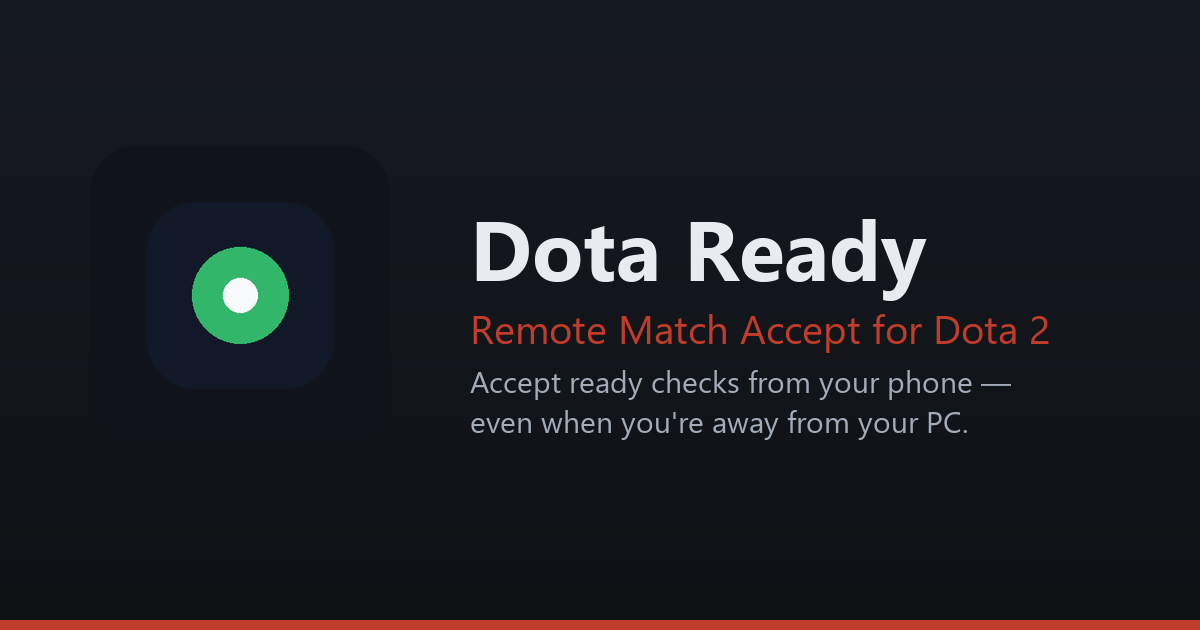
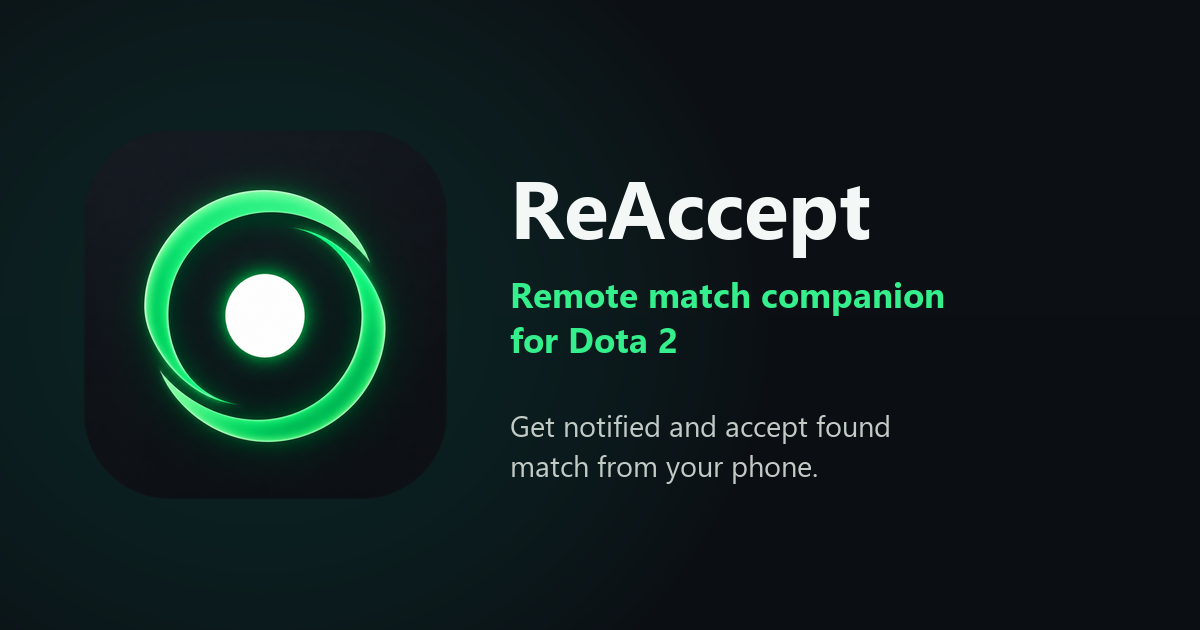
ui: rebrand landing site as ReAccept
Move the public site to re-accept.com, update metadata and disclaimers, and publish the new icon, social card, download names, and QR code.

diff --git a/index.html b/index.html
@@ -3,8 +3,9 @@
 <head>
   <meta charset="UTF-8">
   <meta name="viewport" content="width=device-width, initial-scale=1">
-  <title>Dota Ready — Remote Match Accept for Dota 2</title>
-  <meta name="description" content="Dota Ready lets you accept Dota 2 ready checks remotely from your phone. Never miss a queue again — get a push notification and accept the match without touching your PC.">
+  <title>ReAccept — Remote match companion for Dota 2</title>
+  <meta name="description" content="Get notified and accept found match from your phone.">
+  <link rel="canonical" href="https://re-accept.com/">
 
   <!-- Pre-launch: keep this page out of search results until billing is live.
        Remove this tag AND the Disallow rule in robots.txt at launch (see docs/PHASE10_PRODUCTION_PLAN.md, SEO section). -->
@@ -12,13 +13,14 @@
 
   <!-- Open Graph / Twitter card -->
   <meta property="og:type" content="website">
-  <meta property="og:title" content="Dota Ready — remotely accept Dota 2 matches from your phone">
-  <meta property="og:description" content="Get a push notification when a Dota 2 ready check appears and accept it from your phone — even away from your PC.">
-  <meta property="og:image" content="assets/screenshots/en/og-cover.png">
+  <meta property="og:title" content="ReAccept — Remote match companion for Dota 2">
+  <meta property="og:description" content="Get notified and accept found match from your phone.">
+  <meta property="og:url" content="https://re-accept.com/">
+  <meta property="og:image" content="https://re-accept.com/assets/screenshots/en/og-cover.png">
   <meta name="twitter:card" content="summary_large_image">
-  <meta name="twitter:title" content="Dota Ready — remotely accept Dota 2 matches from your phone">
-  <meta name="twitter:description" content="Get a push notification when a Dota 2 ready check appears and accept it from your phone — even away from your PC.">
-  <meta name="twitter:image" content="assets/screenshots/en/og-cover.png">
+  <meta name="twitter:title" content="ReAccept — Remote match companion for Dota 2">
+  <meta name="twitter:description" content="Get notified and accept found match from your phone.">
+  <meta name="twitter:image" content="https://re-accept.com/assets/screenshots/en/og-cover.png">
 
   <link rel="icon" href="assets/icon.png">
   <link rel="stylesheet" href="styles.css">
@@ -27,10 +29,11 @@
   {
     "@context": "https://schema.org",
     "@type": "SoftwareApplication",
-    "name": "Dota Ready",
+    "name": "ReAccept",
     "applicationCategory": "UtilitiesApplication",
     "operatingSystem": "Windows, Android",
-    "description": "Accept Dota 2 ready checks remotely from your phone via a push notification.",
+    "url": "https://re-accept.com/",
+    "description": "Get notified and accept found match from your phone.",
     "offers": {
       "@type": "Offer",
       "price": "0",
@@ -46,7 +49,7 @@
     <nav class="nav">
       <div class="brand">
         <img src="assets/icon.png" alt="" class="brand-icon">
-        Dota Ready
+        ReAccept
       </div>
       <div class="nav-links">
         <a href="#how-it-works">How it works</a>
@@ -58,9 +61,9 @@
 
     <div class="hero-inner">
       <div class="hero-content">
-        <h1>Dota Ready — remotely accept Dota 2 matches from your phone</h1>
-        <p class="subhead">Never miss a queue again. Get a push notification the instant a ready
-          check appears, and accept it from your phone — even when you're away from your PC.</p>
+        <h1>ReAccept</h1>
+        <p class="hero-tagline">Remote match companion for Dota 2</p>
+        <p class="subhead">Get notified and accept found match from your phone.</p>
         <div class="cta-row">
           <a class="btn btn-primary" href="#download-windows">Download for Windows</a>
           <a class="btn btn-secondary" href="#download-android">Get the Android app</a>
@@ -69,7 +72,7 @@
       </div>
       <div class="hero-shot">
         <img src="assets/screenshots/en/app-match-found.png"
-             alt="Dota Ready phone notification for a match found, with an Accept button"
+             alt="ReAccept phone notification for a match found, with an Accept button"
              loading="lazy">
       </div>
     </div>
@@ -87,17 +90,17 @@
             <p>Runs quietly in the background while you queue. No border, no overlay, no interference
               with DX11 or Vulkan.</p>
             <img class="step-shot step-shot-wide" src="assets/screenshots/en/desk-main.png"
-                 alt="Dota Ready desktop app showing server connected and Dota 2 detected">
+                 alt="ReAccept desktop app showing server connected and Dota 2 detected">
           </div>
         </li>
         <li>
           <span class="step-num">2</span>
           <div>
             <h3>Pair your phone</h3>
-            <p>Scan a QR code from the Dota Ready app once. The pairing is per-device and can be
+            <p>Scan a QR code from the ReAccept app once. The pairing is per-device and can be
               revoked at any time.</p>
             <img class="step-shot step-pair-wide" src="assets/screenshots/en/desk-qr.png"
-                 alt="One-time pairing QR code shown by the Dota Ready desktop app">
+                 alt="One-time pairing QR code shown by the ReAccept desktop app">
           </div>
         </li>
         <li>
@@ -115,7 +118,7 @@
             <h3>Accept from anywhere</h3>
             <p>Tap Accept in the notification or the app. Your PC clicks the match for you.</p>
             <img class="step-shot" src="assets/screenshots/en/app-match-found.png"
-                 alt="Dota Ready phone screen with the Match found dialog and Accept button">
+                 alt="ReAccept phone screen with the Match found dialog and Accept button">
           </div>
         </li>
       </ol>
@@ -127,19 +130,19 @@
     <section id="background" class="section section-callout">
       <h2>Make sure it works in the background</h2>
       <p class="callout-intro">Android aggressively kills background apps by default. For
-        notifications to arrive reliably, exempt Dota Ready from battery optimization and allow
+        notifications to arrive reliably, exempt ReAccept from battery optimization and allow
         background activity in your phone's settings. This takes 30 seconds and is required, not
         optional.</p>
       <div class="callout-sequence">
         <figure>
           <img src="assets/screenshots/en/app-settings.png"
-               alt="Dota Ready in-app Settings screen with a Request unrestricted battery use button"
+               alt="ReAccept in-app Settings screen with a Request unrestricted battery use button"
                loading="lazy">
-          <figcaption>1. In Dota Ready → Settings, request unrestricted battery use</figcaption>
+          <figcaption>1. In ReAccept → Settings, request unrestricted battery use</figcaption>
         </figure>
         <figure>
           <img src="assets/screenshots/en/app-info.png"
-               alt="Android App info screen for Dota Ready with Battery usage highlighted"
+               alt="Android App info screen for ReAccept with Battery usage highlighted"
                loading="lazy">
           <figcaption>2. Open App info → Battery usage</figcaption>
         </figure>
@@ -177,7 +180,7 @@
 
     <section id="privacy" class="section">
       <h2>Privacy</h2>
-      <p>Dota Ready only looks at your Dota 2 window to detect the ready-check screen. It doesn't read
+      <p>ReAccept only looks at your Dota 2 window to detect the ready-check screen. It doesn't read
         your screen otherwise, doesn't collect gameplay data, and doesn't share data with third
         parties. Full details in the <a href="privacy.html">Privacy Policy</a>.</p>
     </section>
@@ -187,7 +190,7 @@
       <div class="faq-list">
         <details>
           <summary>Will this get me banned?</summary>
-          <p>Dota Ready doesn't read game state, doesn't automate gameplay, and doesn't touch memory
+          <p>ReAccept doesn't read game state, doesn't automate gameplay, and doesn't touch memory
             or the game process. It only detects the ready-check screen from a screenshot and sends a
             single click — the same thing you'd do yourself. We can't make guarantees about anti-cheat
             policy, but this is not gameplay automation.</p>
@@ -198,7 +201,7 @@
         </details>
         <details>
           <summary>What happens if I'm already at my PC?</summary>
-          <p>Nothing changes — Dota Ready doesn't take over if you're present. It only clicks when the
+          <p>Nothing changes — ReAccept doesn't take over if you're present. It only clicks when the
             remote accept command actually needs to run.</p>
         </details>
         <details>
@@ -228,7 +231,7 @@
         <div class="download-card" id="download-windows">
           <h3>Windows</h3>
           <p>Installer, with automatic updates. Windows 10/11, 64-bit.</p>
-          <a class="btn btn-primary" href="https://github.com/enyded/dota_ready/releases/latest/download/DotaReady-Setup.exe">
+          <a class="btn btn-primary" href="https://github.com/enyded/dota_ready/releases/latest/download/ReAccept-Setup.exe">
             Download for Windows
           </a>
         </div>
@@ -236,8 +239,8 @@
           <h3>Android</h3>
           <p>Scan the QR code, or download the APK directly.</p>
           <img class="qr" src="assets/screenshots/en/android-qr-placeholder.png"
-               alt="QR code to download the Dota Ready Android app" loading="lazy">
-          <a class="btn btn-secondary" href="https://github.com/enyded/dota_ready/releases/latest/download/DotaReady.apk">
+               alt="QR code to download the ReAccept Android app" loading="lazy">
+          <a class="btn btn-secondary" href="https://github.com/enyded/dota_ready/releases/latest/download/ReAccept.apk">
             Download APK
           </a>
         </div>
@@ -252,8 +255,9 @@
       <a href="privacy.html">Privacy Policy</a>
       <a href="mailto:support.d2r@gmail.com">Contact</a>
     </div>
-    <p class="footer-note">Dota Ready is not affiliated with Valve Corporation. Dota 2 is a trademark
-      of Valve Corporation.</p>
+    <p class="footer-note">ReAccept is an independent third-party application<br>
+      and is not affiliated with or endorsed by Valve Corporation.</p>
+    <p class="footer-note">Dota and Dota 2 are trademarks of Valve Corporation.</p>
   </footer>
 
 </body>

diff --git a/privacy.html b/privacy.html
@@ -3,8 +3,10 @@
 <head>
   <meta charset="UTF-8">
   <meta name="viewport" content="width=device-width, initial-scale=1">
-  <title>Privacy Policy — Dota Ready</title>
+  <title>Privacy Policy — ReAccept</title>
   <meta name="robots" content="noindex, nofollow">
+  <link rel="canonical" href="https://re-accept.com/privacy.html">
+  <link rel="icon" href="assets/icon.png">
   <link rel="stylesheet" href="styles.css">
   <style>
     .doc { max-width: 720px; margin: 0 auto; padding: 64px 24px; }
@@ -23,7 +25,7 @@
 </head>
 <body>
   <div class="doc">
-    <p><a href="index.html">&larr; Back to Dota Ready</a></p>
+    <p><a href="index.html">&larr; Back to ReAccept</a></p>
     <h1>Privacy Policy — draft</h1>
 
     <p class="draft-note"><strong>Not final.</strong> This is the working draft from
@@ -34,7 +36,7 @@
        <strong>Publisher:</strong> [PUBLISHER LEGAL NAME]<br>
        <strong>Contact:</strong> support.d2r@gmail.com</p>
 
-    <p>Dota Ready connects one Android device to one Windows PC so the user can receive a Dota 2
+    <p>ReAccept connects one Android device to one Windows PC so the user can receive a Dota 2
       ready-check notification and request acceptance remotely.</p>
 
     <h2>Data processed</h2>
@@ -75,6 +77,10 @@
     <p>The service is not directed to children. Material policy changes will be published at the
       same stable URL with a new effective date. Questions may be sent to
       support.d2r@gmail.com.</p>
+
+    <h2>Independent application and trademarks</h2>
+    <p>ReAccept is an independent third-party application and is not affiliated with or endorsed
+      by Valve Corporation. Dota and Dota 2 are trademarks of Valve Corporation.</p>
   </div>
 </body>
 </html>

diff --git a/styles.css b/styles.css
@@ -108,6 +108,13 @@ h1, h2, h3 {
   font-size: 2.25rem;
 }
 
+.hero-tagline {
+  color: var(--fg);
+  font-size: 1.35rem;
+  font-weight: 600;
+  margin: 0 0 12px;
+}
+
 .subhead {
   color: var(--fg-dim);
   font-size: 1.1rem;

diff --git a/README.md b/README.md
@@ -1,6 +1,6 @@
-# Dota Ready — landing page
+# ReAccept — landing page
 
-Static site for the Dota Ready landing page. Plain HTML/CSS, no build step, no JS framework.
+Static site for the ReAccept landing page. Plain HTML/CSS, no build step, no JS framework.
 Content and structure follow the "Landing page" section of `docs/PHASE10_PRODUCTION_PLAN.md` in
 the main `dota` repo.
 
@@ -34,32 +34,25 @@ Filenames must stay identical across locale folders so the fallback lookup is a 
 - `og-cover.png` — generated cover image, not a screenshot (locale-specific OG previews are a
   nice-to-have, not required).
 - `android-qr-placeholder.png` — generated QR code, not a manual screenshot; points at the
-  APK download URL, which isn't a published release asset yet (see TODO below).
+  stable `ReAccept.apk` release URL.
 
 ## Still TODO before launch
 
-- [x] **Screenshots (`en/`)** — real screenshots captured and wired into the page: desktop app
-  (main window, pairing QR), Android app (home, match-found notification/dialog, settings,
-  background-permission drill-down), and a generated `og-cover.png`. Other locales (`ru/`, etc.)
-  still need their own pass once localized app builds exist.
-- [ ] **Download links** — point at `https://github.com/enyded/dota_ready/releases/latest/download/...`;
-  the QR code in the Download section already encodes this URL. This repo is also where release
-  assets should be published (per the "Release file distribution" section of the production plan)
-  — filenames must stay stable across releases for these links (and the QR) to keep working.
-  Deferred until the CI/CD technical design is written; the links/QR will 404 until then.
+- [ ] **Screenshots (`en/`)** — the product owner will replace screenshots containing the old
+  brand. The generated `og-cover.png` already uses the approved ReAccept icon and copy.
+- [x] **Download links** — point at the stable GitHub Release aliases `ReAccept-Setup.exe` and
+  `ReAccept.apk`; the QR code encodes the same Android URL.
 - [x] **Support email** — `support.d2r@gmail.com`, wired into the footer, `privacy.html`, and
   `docs/PRIVACY_POLICY.md`.
 - [ ] **Privacy Policy** — `privacy.html` mirrors `docs/PRIVACY_POLICY.md`, which is still a draft
   with bracketed placeholders ([DATE], [PUBLISHER LEGAL NAME], [HOSTING AND LOGGING DETAILS],
   [PROCESSORS], [RETENTION POLICY]). Fill those in before removing `noindex` — needs real legal/ops
   input, not something to fill in generically.
-- [ ] **Hosting** — deploying via GitHub Pages on this repo for now (Settings → Pages → Source:
+- [x] **Hosting** — deploying via GitHub Pages on this repo for now (Settings → Pages → Source:
   Deploy from a branch → `main` → `/` (root) → Save), served at
-  `https://enyded.github.io/dota_ready/`. `.nojekyll` is committed so GitHub serves the static
-  files as-is instead of running them through a Jekyll build. Move to a custom domain + VPS once
-  that's set up (per the production plan's Open items) — swapping hosts doesn't need any code
-  changes here, just a new `CNAME` file (or DNS + reverse proxy config on the VPS) once a domain
-  exists.
+  `https://re-accept.com/`. `.nojekyll` is committed so GitHub serves the static files as-is
+  instead of running them through a Jekyll build. DNS is managed by Cloudflare in DNS-only mode
+  for the GitHub Pages apex and `www` records; `www` redirects to the apex domain.
 - [ ] **SEO flip at launch** — both HTML files carry `<meta name="robots" content="noindex, nofollow">`
   and `robots.txt` disallows everything. This is intentional pre-launch (see
   `docs/PHASE10_PRODUCTION_PLAN.md`, "SEO and indexing") — do not remove until the product with
